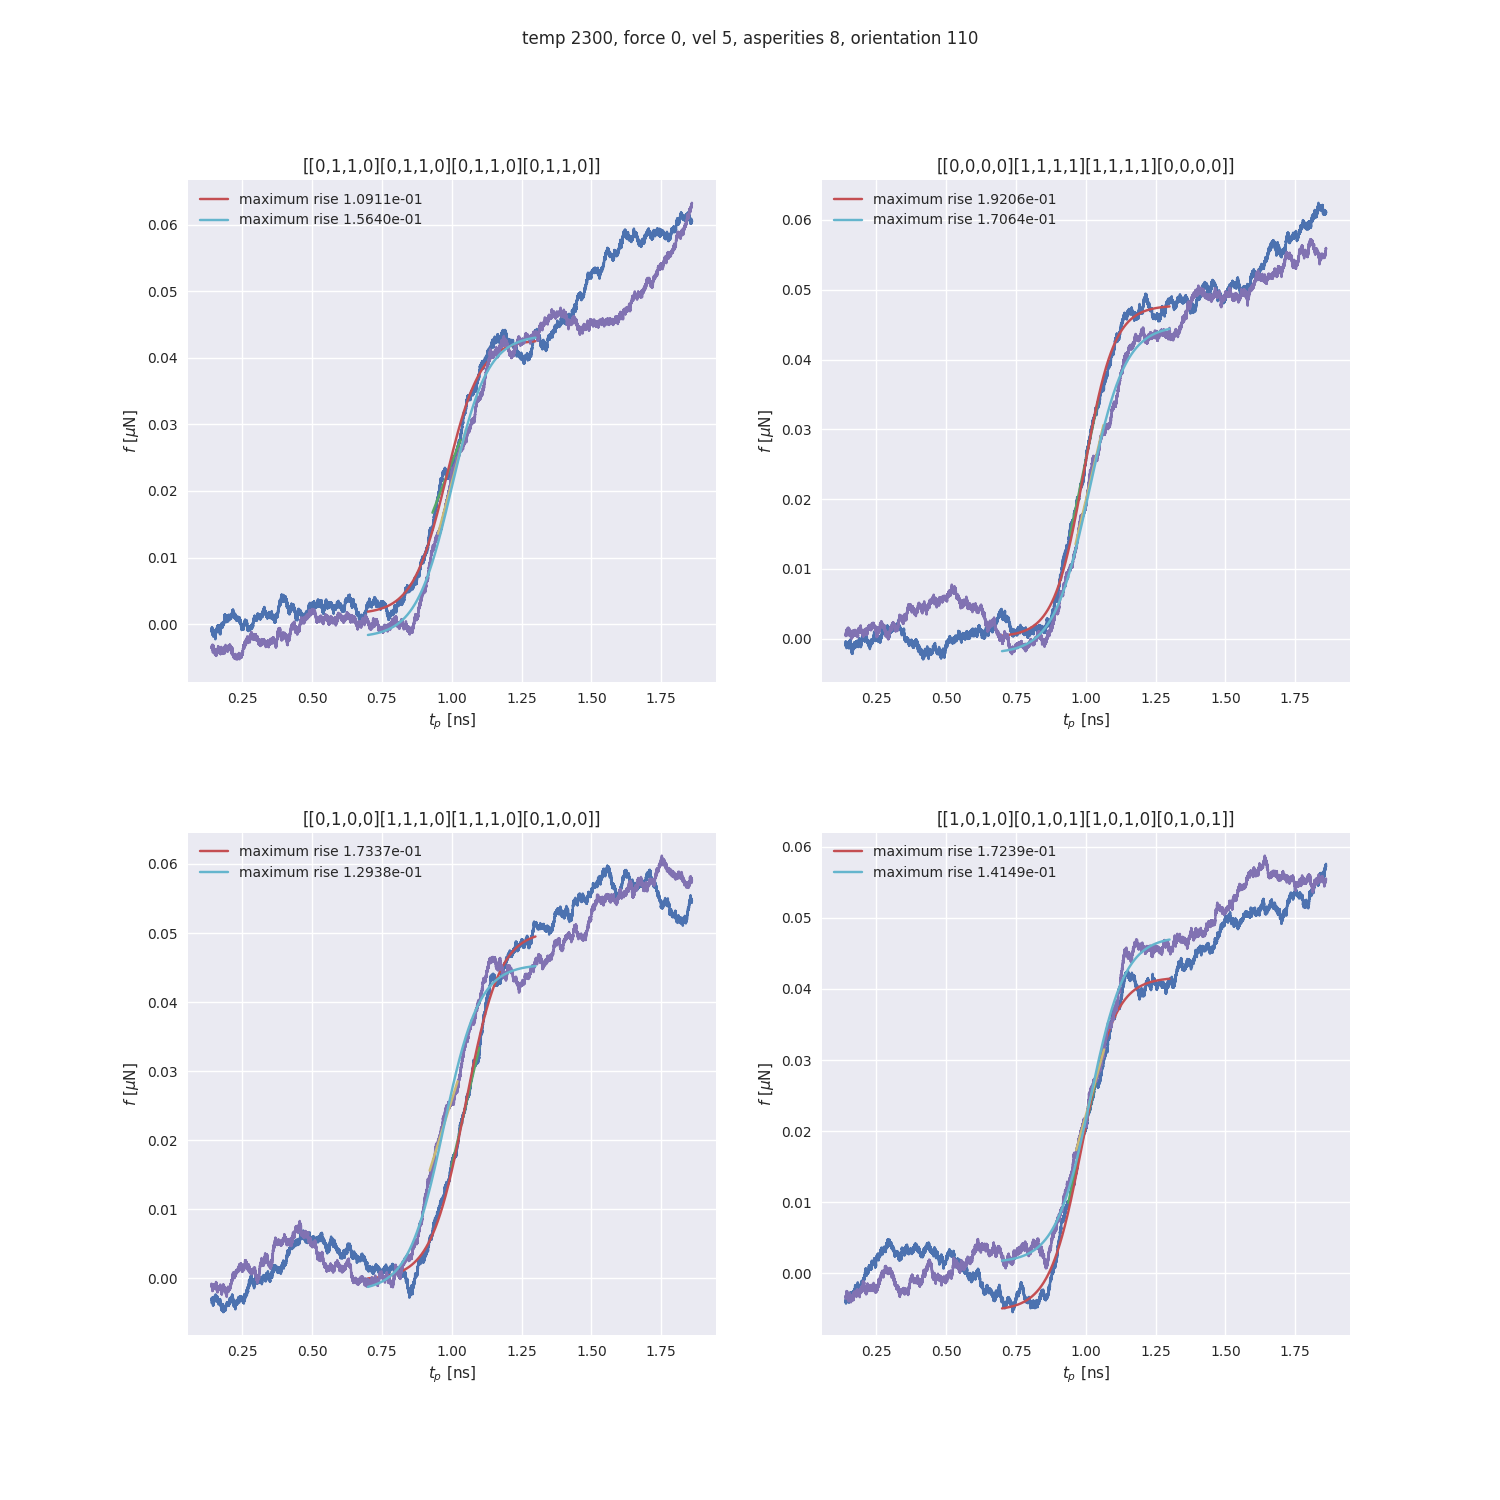
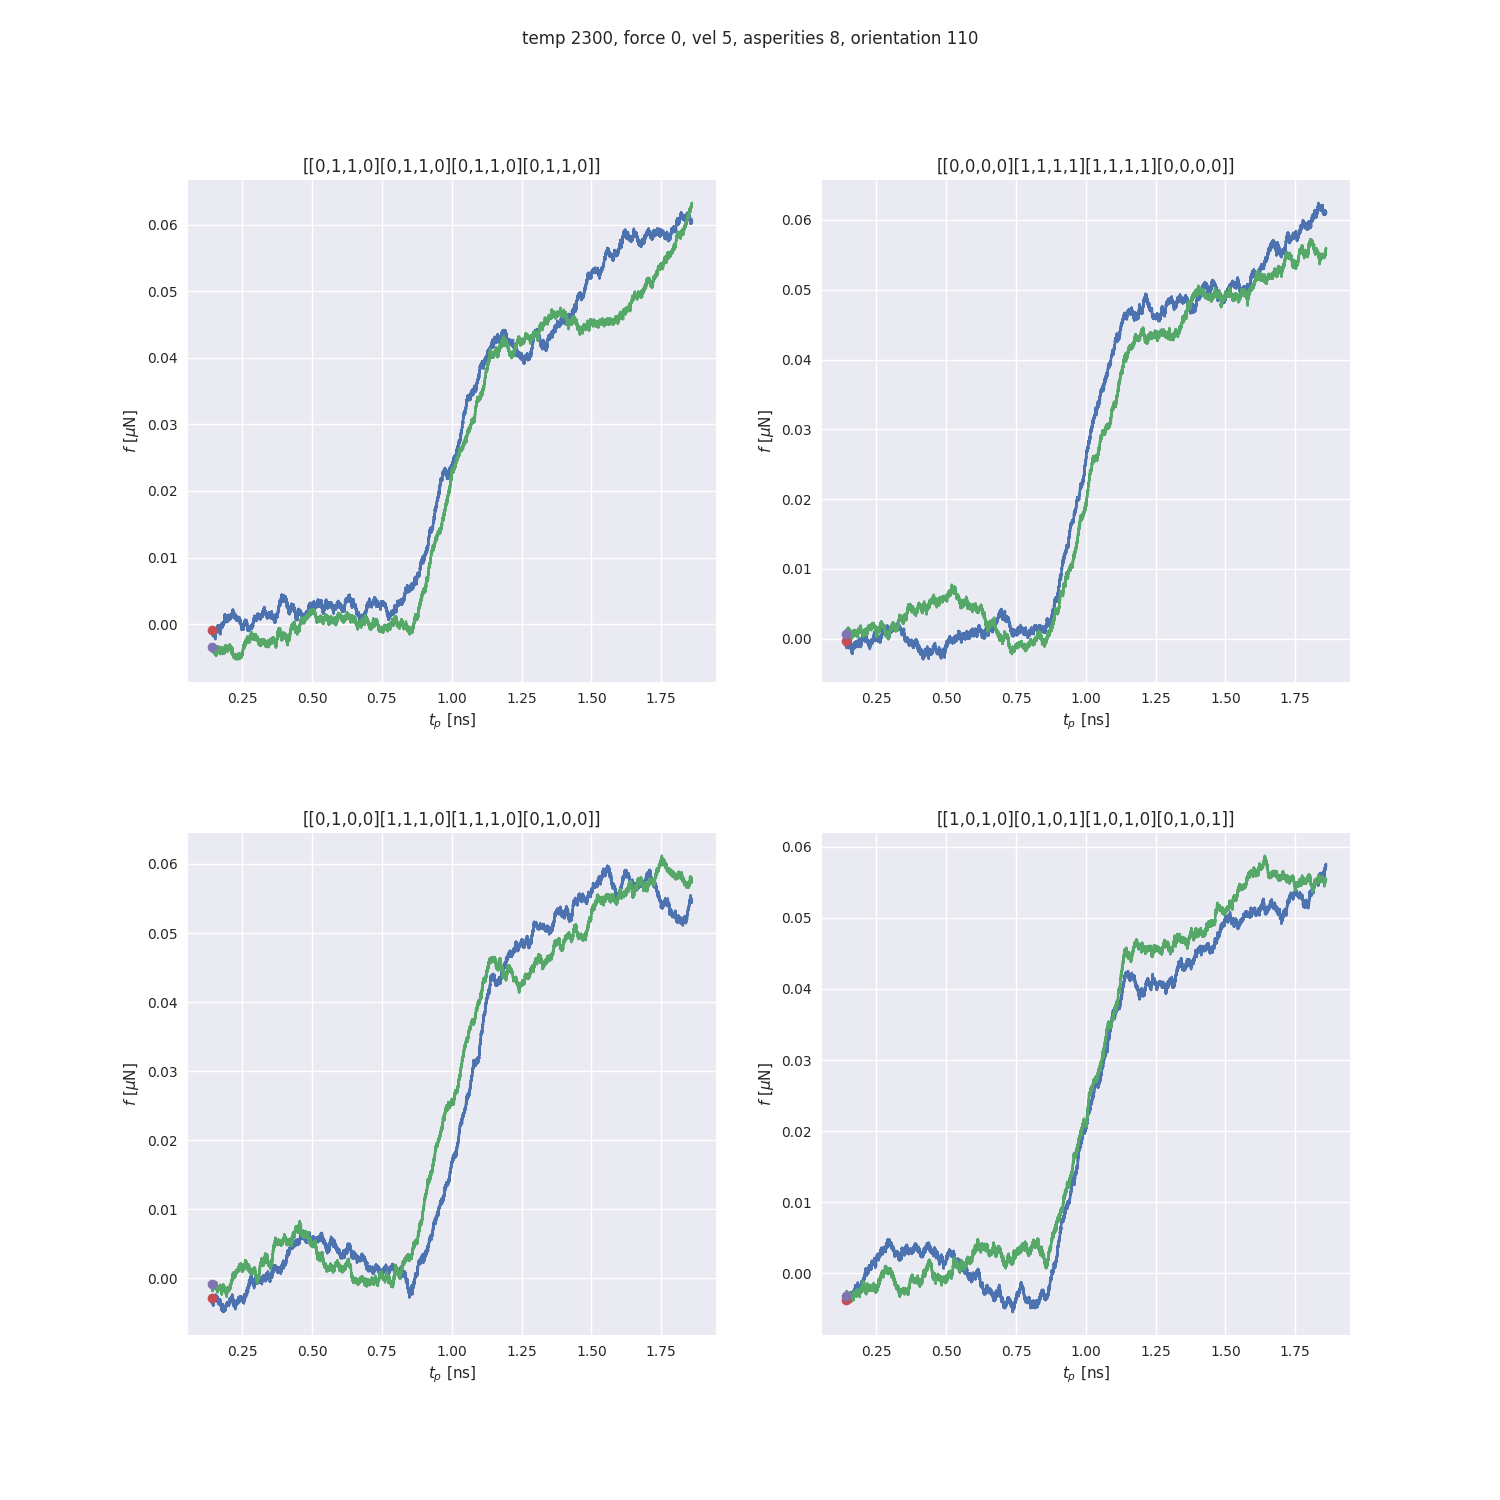
rise is now calculated in pre_utils

diff --git a/python/plot/plot_load_curves.py b/python/plot/plot_load_curves.py
@@ -16,18 +16,9 @@ import matplotlib as mpl
 import matplotlib.pyplot as plt
 from multiline import multiline
 from matplotlib import style
-from scipy.optimize import curve_fit
 plt.style.use('seaborn')
 
 
-
-def sigmoid(x, L ,x0, k, b):
-    y = L / (1 + np.exp(-k*(x-x0))) + b
-    return (y)
-
-def deriv_sigmoid(x, L, x0, k, b):
-    y = ( L*np.exp(k*(x-x0))*(x-x0) )/( (np.exp(k*(x-x0))+1)**2 )
-    return y
 def load_displacement(temp, vel, force, orientation, grid, disp_template, initnum, seeds):
     disp_all = []
     for seed in seeds:
@@ -514,47 +505,7 @@ def plot_production(temp, vel, force, uc, asperities, time, orientation, grid, e
             axs[i].plot(load_curve[:,0], load_curve[:,1])
             axs[i].legend()
 
-            #fitting sigmoid to selected interval.
-            polfit_start_indx = (np.abs(load_curve[:,0] - 0.7)).argmin()
-            polfit_stop_indx = (np.abs(load_curve[:,0] - 1.3)).argmin()
-            #translation so it has same shape as load_curve
-            polfit_data = np.array((load_curve[polfit_start_indx:polfit_stop_indx,0],
-                                   load_curve[polfit_start_indx:polfit_stop_indx,1])).T
 
-
-            #curve fit doesn't like nan. removing theese for now
-            non_nan_mask = ~np.isnan(polfit_data[:,1])
-
-            #https://stackoverflow.com/questions/55725139/fit-sigmoid-function-s-shape-curve-to-data-using-python
-            time_nnan = polfit_data[non_nan_mask,0]
-            load_curve_nnan = polfit_data[non_nan_mask,1]
-            #this was [max(time_nnan), etc and worked.. website says ydata first
-            p0 = [max(time_nnan), np.median(time_nnan),1,min(load_curve_nnan)] # this is an mandatory initial guess
-            
-
-            popt, pcov = curve_fit(sigmoid, time_nnan, load_curve_nnan,p0, method='dogbox')
-            print(popt)
-            
-            #max_rise = np.max(np.gradient(sigmoid(time_nnan, *popt))) this gives wrong values. idk
-            
-            #repeating selection and polyfit but this time fitting linear func to sigmoid midriff
-            midriff = np.array((popt[1] - 0.05, popt[1] + 0.05))
-
-            print(f'midriff ',midriff)
-            midriff_start_indx = (np.abs(time_nnan - midriff[0])).argmin()
-            midriff_stop_indx = (np.abs(time_nnan - midriff[1])).argmin()
-
-            print('midriff indices ', midriff_start_indx, midriff_stop_indx)
-            polfit_data2 = np.array((time_nnan[midriff_start_indx:midriff_stop_indx], 
-                                    load_curve_nnan[midriff_start_indx:midriff_stop_indx])).T
-
-            rise, intersect = np.polyfit(polfit_data2[:,0], polfit_data2[:,1], 1)
-
-            print(rise, intersect)
-            print(polfit_data2)
-            axs[i].plot(polfit_data2[:,0], polfit_data2[:,0]*rise + intersect)
-            axs[i].plot(time_nnan, sigmoid(time_nnan, *popt), label = f'maximum rise {rise:.4e}')
-            axs[i].legend()
 
         for ms in ms_all:
             axs[i].plot(ms[0], ms[1], 'o') #this is just proprietary

diff --git a/python/post/post_utils.py b/python/post/post_utils.py
@@ -15,8 +15,13 @@ from tqdm import trange
 from scipy.signal import find_peaks
 from scipy.constants import value
 from lammps_logfile import File, running_mean
+from scipy.optimize import curve_fit
 import warnings
 import numpy as np
+
+def sigmoid(x, L ,x0, k, b):
+    y = L / (1 + np.exp(-k*(x-x0))) + b
+    return (y)
 
 def get_erratic_contact_area(pipeline, outfile="area.txt", delta=None,
                              init_time=0, asperity = 1, grid = (1,1)):
@@ -323,12 +328,46 @@ def extract_load_curves(logfile, delta=None, init_time=0, window=1,
 
     print(f'push start indx, time: {time[push_start_indx]}, {push_start_indx}')
     print(f'push stop indx, time: {time[push_stop_indx]}, {push_stop_indx}')
+    
+    #fitting sigmoid to selected interval.
+    polfit_start_indx = (np.abs(time - 0.7)).argmin()
+    polfit_stop_indx = (np.abs(time - 1.3)).argmin()
+    #translation so it has same shape as load_curve
+    polfit_data = np.array((time[polfit_start_indx:polfit_stop_indx],
+                           fx[polfit_start_indx:polfit_stop_indx])).T
 
-    resistance_band = (time[push_start_indx:push_stop_indx], 
-                       fx[push_start_indx:push_stop_indx]) #area of lc that rises steadily!
 
-    res_band_fit = np.polyfit(resistance_band[0], resistance_band[1], 1)
-    rise = res_band_fit[0]
+    #curve fit doesn't like nan. removing theese for now
+    non_nan_mask = ~np.isnan(polfit_data[:,1])
+
+    #https://stackoverflow.com/questions/55725139/fit-sigmoid-function-s-shape-curve-to-data-using-python
+    time_nnan = polfit_data[non_nan_mask,0]
+    load_curve_nnan = polfit_data[non_nan_mask,1]
+    #this was [max(time_nnan), etc and worked.. website says ydata first
+    p0 = [max(time_nnan), np.median(time_nnan),1,min(load_curve_nnan)] # this is an mandatory initial guess
+
+
+    popt, pcov = curve_fit(sigmoid, time_nnan, load_curve_nnan,p0, method='dogbox')
+    print(popt)
+
+    #max_rise = np.max(np.gradient(sigmoid(time_nnan, *popt))) this gives wrong values. idk
+
+    #repeating selection and polyfit but this time fitting linear func to sigmoid midriff
+    midriff = np.array((popt[1] - 0.05, popt[1] + 0.05))
+
+    print(f'midriff ',midriff)
+    midriff_start_indx = (np.abs(time_nnan - midriff[0])).argmin()
+    midriff_stop_indx = (np.abs(time_nnan - midriff[1])).argmin()
+
+    print('midriff indices ', midriff_start_indx, midriff_stop_indx)
+    polfit_data2 = np.array((time_nnan[midriff_start_indx:midriff_stop_indx],
+                            load_curve_nnan[midriff_start_indx:midriff_stop_indx])).T
+
+    rise, intersect = np.polyfit(polfit_data2[:,0], polfit_data2[:,1], 1)
+
+
+
+
     print(rise)
     savetxt(f_r, asarray([rise]))
 

diff --git a/python/post/get_rise.py b/python/post/get_rise.py
@@ -1,0 +1,31 @@
+import numpy as np
+import matplotlib.pyplot as plt 
+import glob
+
+def get_rise():
+    '''
+    script finding the rise from a sigmoid function fitted to the load curve data
+    '''
+        # paths
+    project_dir = '../../'
+    fig_dir = project_dir + 'fig/'
+
+    if production:
+        load_curve_dir = project_dir + 'txt/load_curves/production/'
+        max_static_dir = project_dir + 'txt/max_static/production/'
+        rise_dir = project_dir + 'txt/rise/production/'
+
+        template_lc = load_curve_dir + 'load_curves_temp{}_vel{}_force{}_asp{}_or{}_initnum{}_seed{}_errgrid{}_{}.txt'
+        template_ms = max_static_dir + 'max_static_temp{}_vel{}_force{}_asp{}_or{}_initnum{}_seed{}_errgrid{}_{}.txt'
+        template_r = rise_dir + 'rise_temp{}_vel{}_force{}_asp{}_or{}_initnum{}_seed{}_errgrid4_4.txt'
+        template_aux = project_dir + 'simulations/sys_asp{}_uc{}/production/sim_temp{}_force{}_asp{}_or{}_time{}_initnum{}_seed{}_errgrid4_4/system_asp{}_or{}_uc{}_initnum{}_errgrid4_4_auxiliary.json'
+    else:
+        load_curve_dir = project_dir + 'txt/load_curves/erratic/'
+        max_static_dir = project_dir + 'txt/max_static/erratic/'
+        rise_dir = project_dir + 'txt/rise/erratic/'
+
+        template_lc = load_curve_dir + 'load_curves_temp{}_vel{}_force{}_asp{}_or{}_seed{}_errgrid{}_{}.txt'
+        template_ms = max_static_dir + 'max_static_temp{}_vel{}_force{}_asp{}_or{}_seed{}_errgrid{}_{}.txt'
+        template_r = rise_dir + 'rise_temp{}_vel{}_force{}_asp{}_or{}_seed{}_errgrid4_4.txt'
+        template_aux = project_dir + 'simulations/sys_asp{}_uc{}/erratic/sim_temp{}_force{}_asp{}_or{}_time{}_seed{}_errgrid4_4/system_asp{}_or{}_uc{}_initnum{}_errgrid4_4_auxiliary.json'
+
